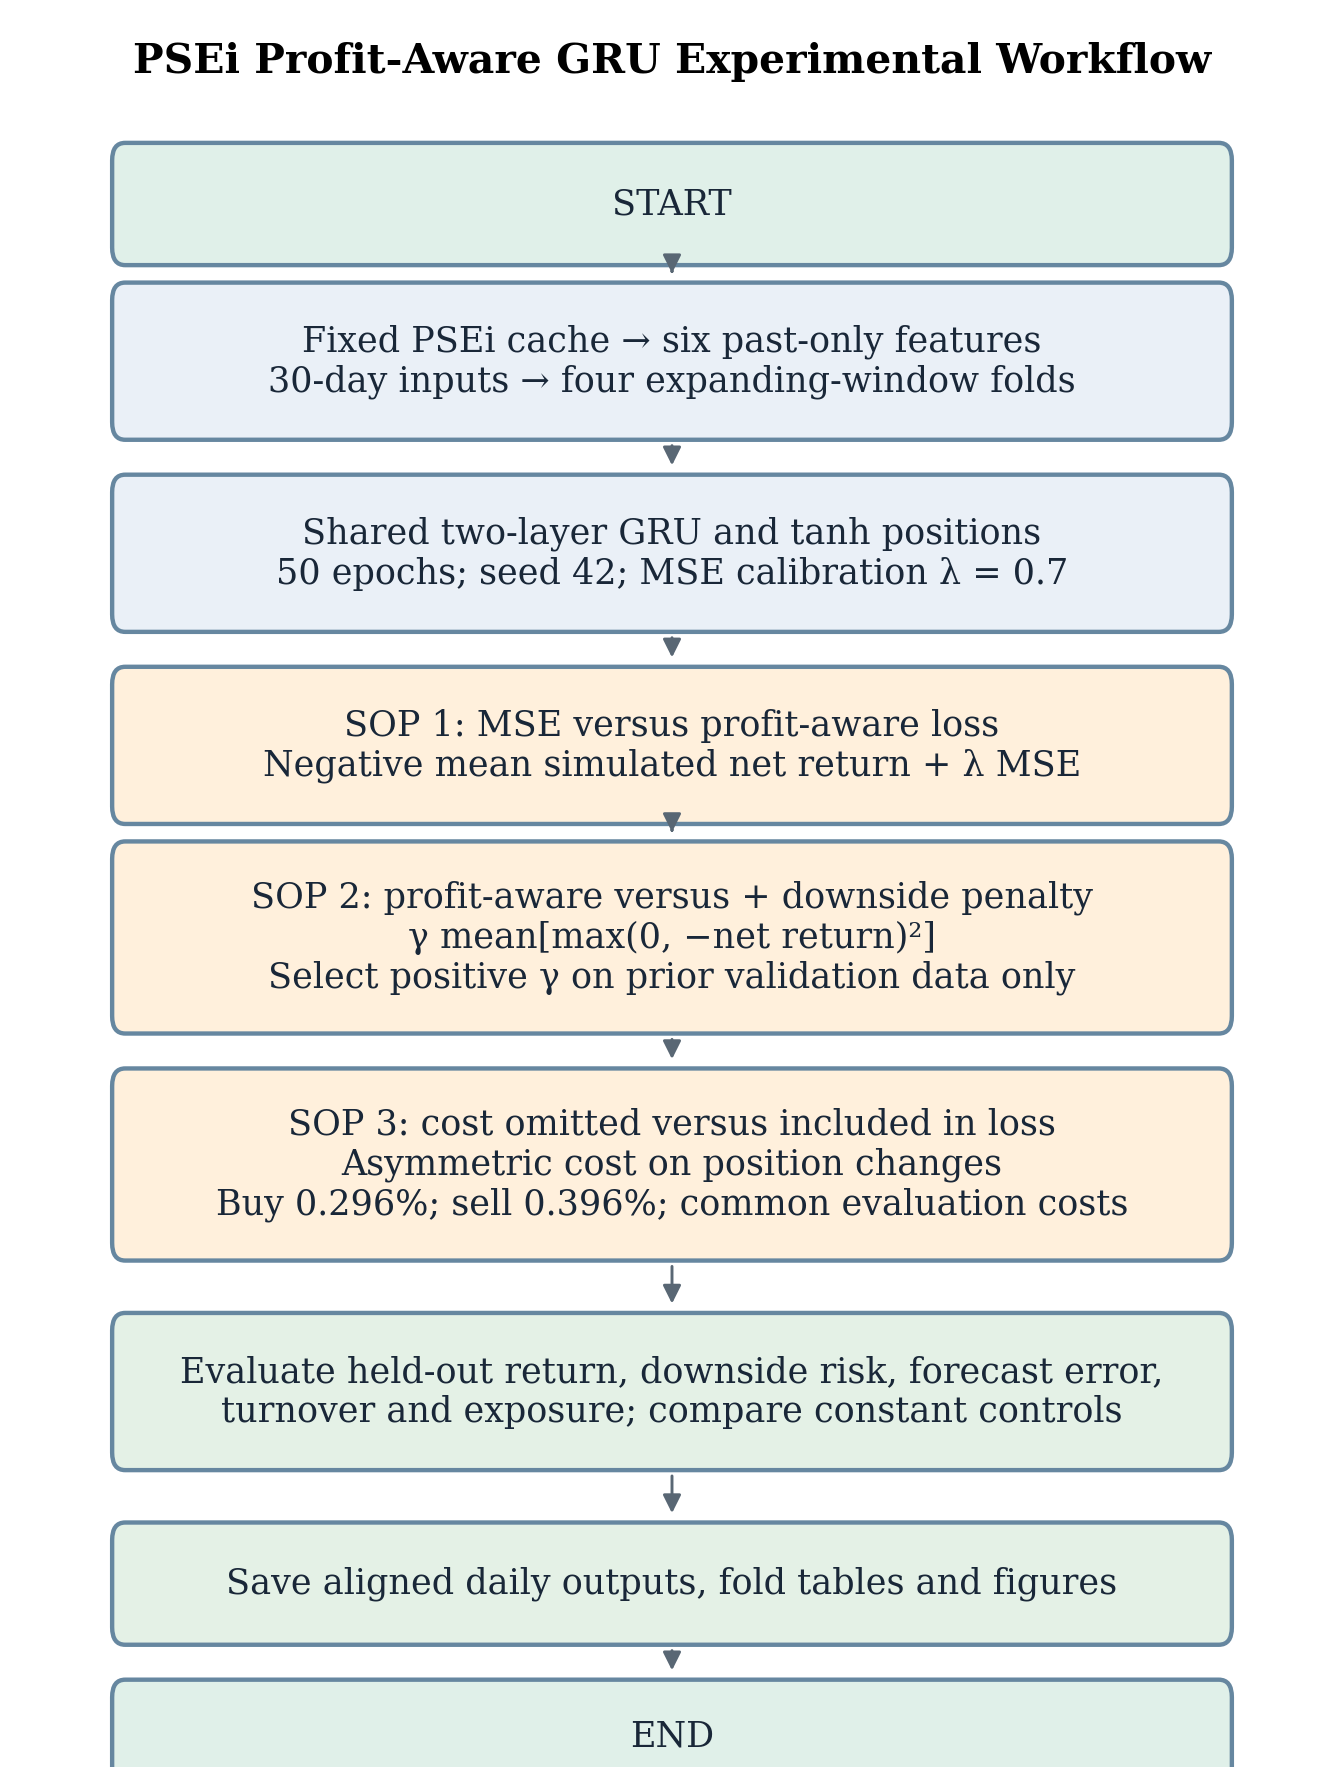
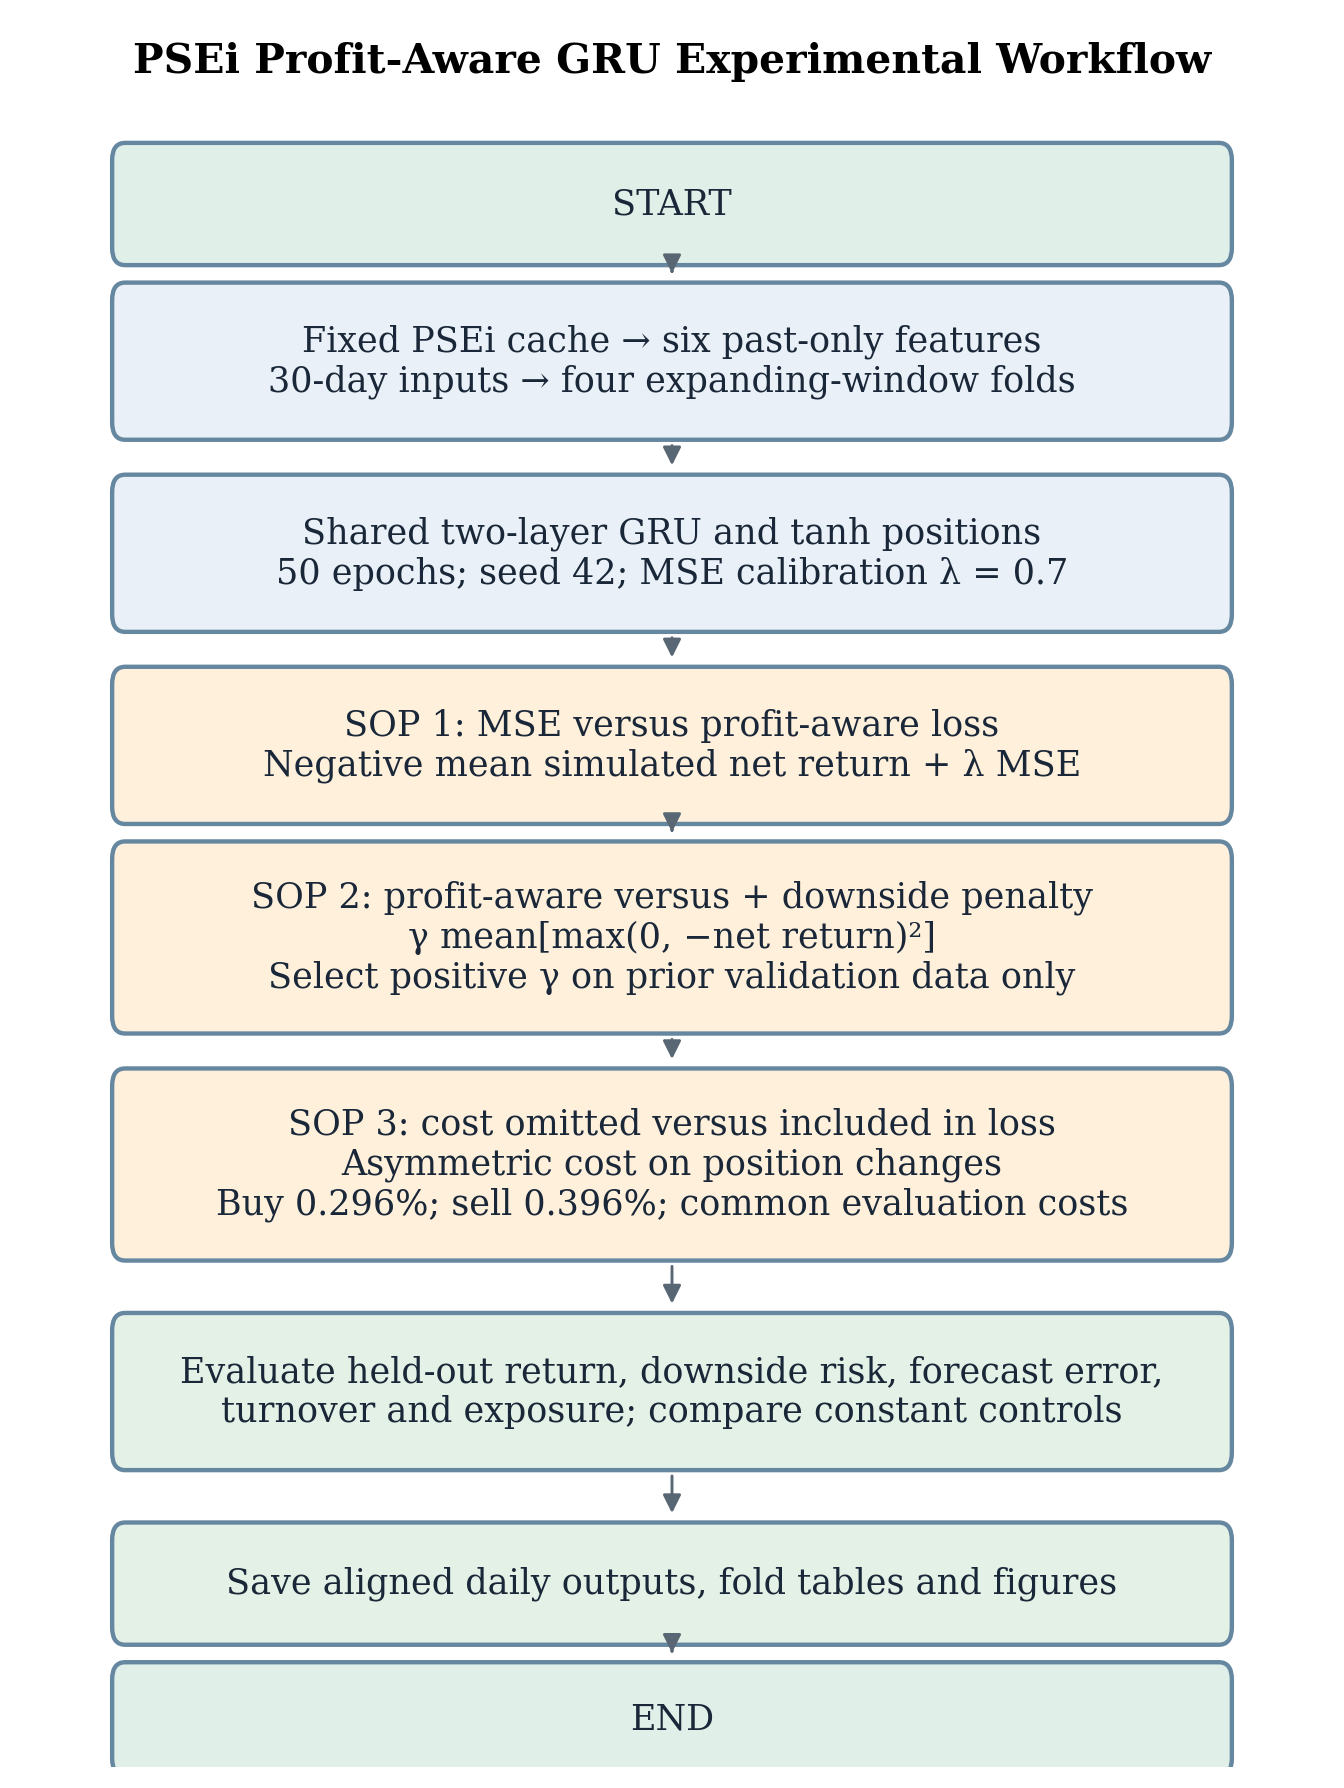
fix: keep workflow end box within diagram bounds

Changed region(s): [[0.0625, 0.9228, 0.9375, 0.9843]]

diff --git a/scripts/build_architecture_figures.py b/scripts/build_architecture_figures.py
@@ -30,7 +30,7 @@ def build():
             ("Evaluate held-out return, downside risk, forecast error,\nturnover and exposure; compare constant controls", "#e4f1e6"),
             ("Save aligned daily outputs, fold tables and figures", "#e4f1e6"),
             ("END", "#e0f0e9")]
-        ys = [.87, .77, .66, .55, .43, .30, .18, .08, -.005]
+        ys = [.87, .77, .66, .55, .43, .30, .18, .08, .005]
         hs = [.05, .07, .07, .07, .09, .09, .07, .05, .045]
         for i, ((text, color), y, h) in enumerate(zip(rows, ys, hs)):
             box(ax, .08, y, .84, h, text, color, 12)
